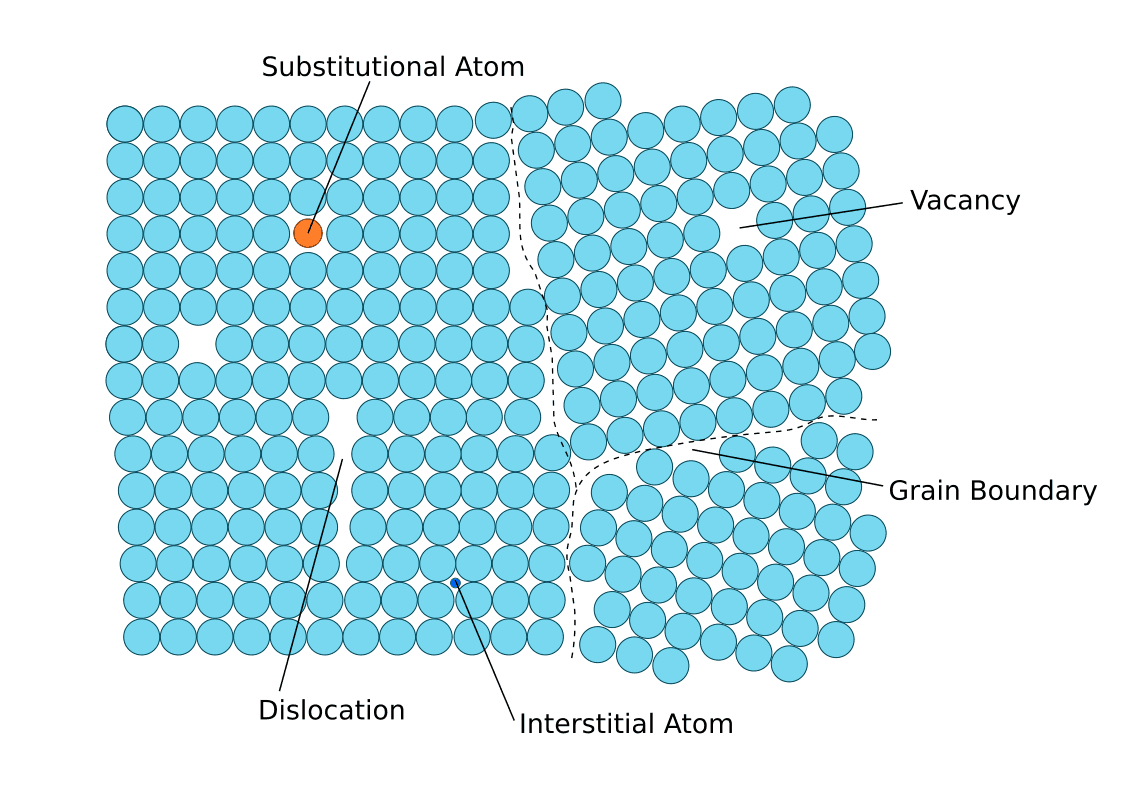
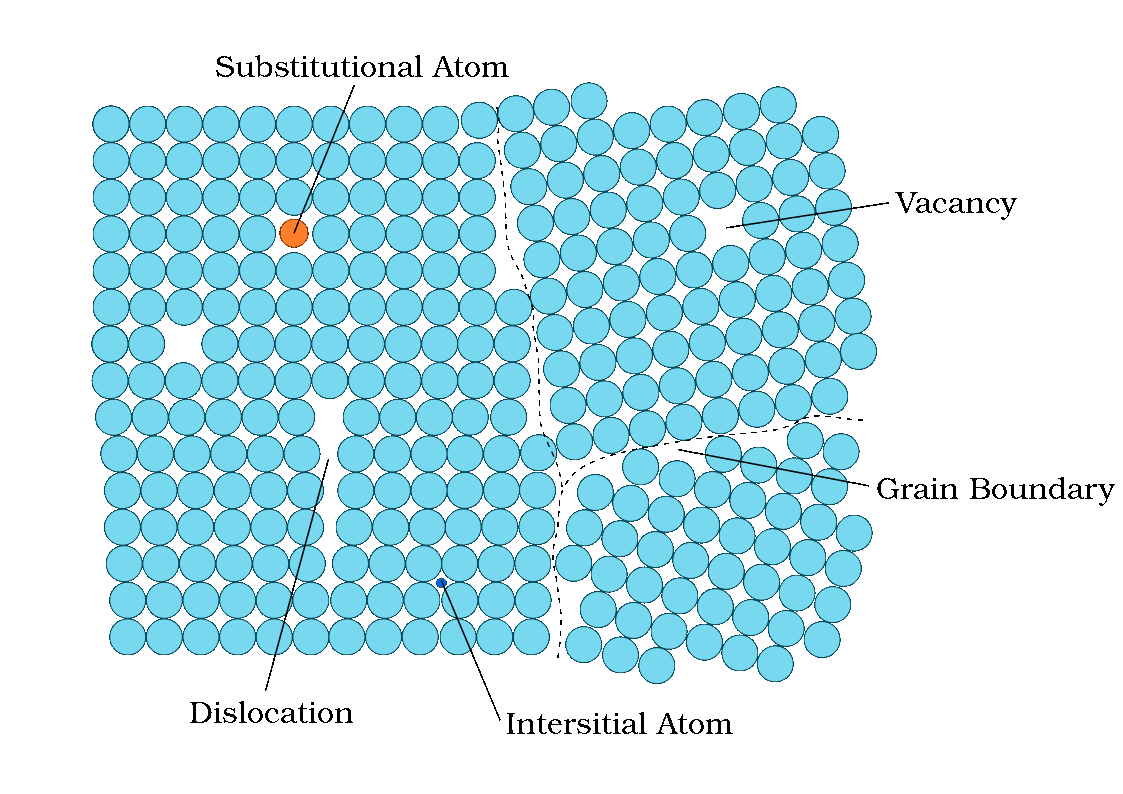
change font in defect types image

Changed region(s): [[0.0623, 0.0605, 0.9973, 0.937], [0.1558, 0.8766, 0.374, 0.9068]]

diff --git a/2_Theory.tex b/2_Theory.tex
@@ -83,7 +83,7 @@ E.g. in the case of a vacancy in, the empty lattice site leaves neighboring W at
 
 \begin{figure}[!ht]
 \center
-\includegraphics[width=0.74\linewidth]{defect_types.png}
+\includegraphics[width=0.76\linewidth]{defect_types.png}
 \caption{Various types of crystal defects shown on a 2D lattice}
 \label{Fig:defect_types}
 \end{figure}
